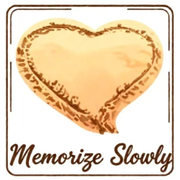
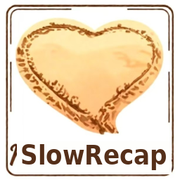
feat(brand): 统一 SlowRecap 品牌名与图标

Changed region(s): [[0.0833, 0.7778, 0.9722, 0.9722]]

diff --git a/index.html b/index.html
@@ -6,7 +6,7 @@
     <meta name="viewport" content="width=device-width, initial-scale=1.0">
     <meta name="theme-color" content="#52796f">
     <link rel="apple-touch-icon" href="./apple-touch-icon.png">
-    <title>慢记工具</title>
+    <title>慢记 SlowRecap</title>
     <!-- 多语言核心（Vue 端与 focus.html 共享的单一实现） -->
     <script src="lang-core.js"></script>
   </head>

diff --git a/vite.config.web.ts b/vite.config.web.ts
@@ -27,7 +27,7 @@ export default defineConfig({
       includeManifestIcons: false,
       manifest: {
         id: './',
-        name: '慢记 - 记忆训练工具',
+        name: '慢记 SlowRecap - 记忆训练工具',
         short_name: '慢记',
         description: '基于艾宾浩斯遗忘曲线的背单词与多场景记忆训练工具',
         lang: 'zh-CN',

diff --git a/README.md b/README.md
@@ -1,4 +1,4 @@
-# 慢记工具 - 全平台记忆训练工具
+# 慢记 SlowRecap - 全平台记忆训练工具
 
 ## 软件简介
 
